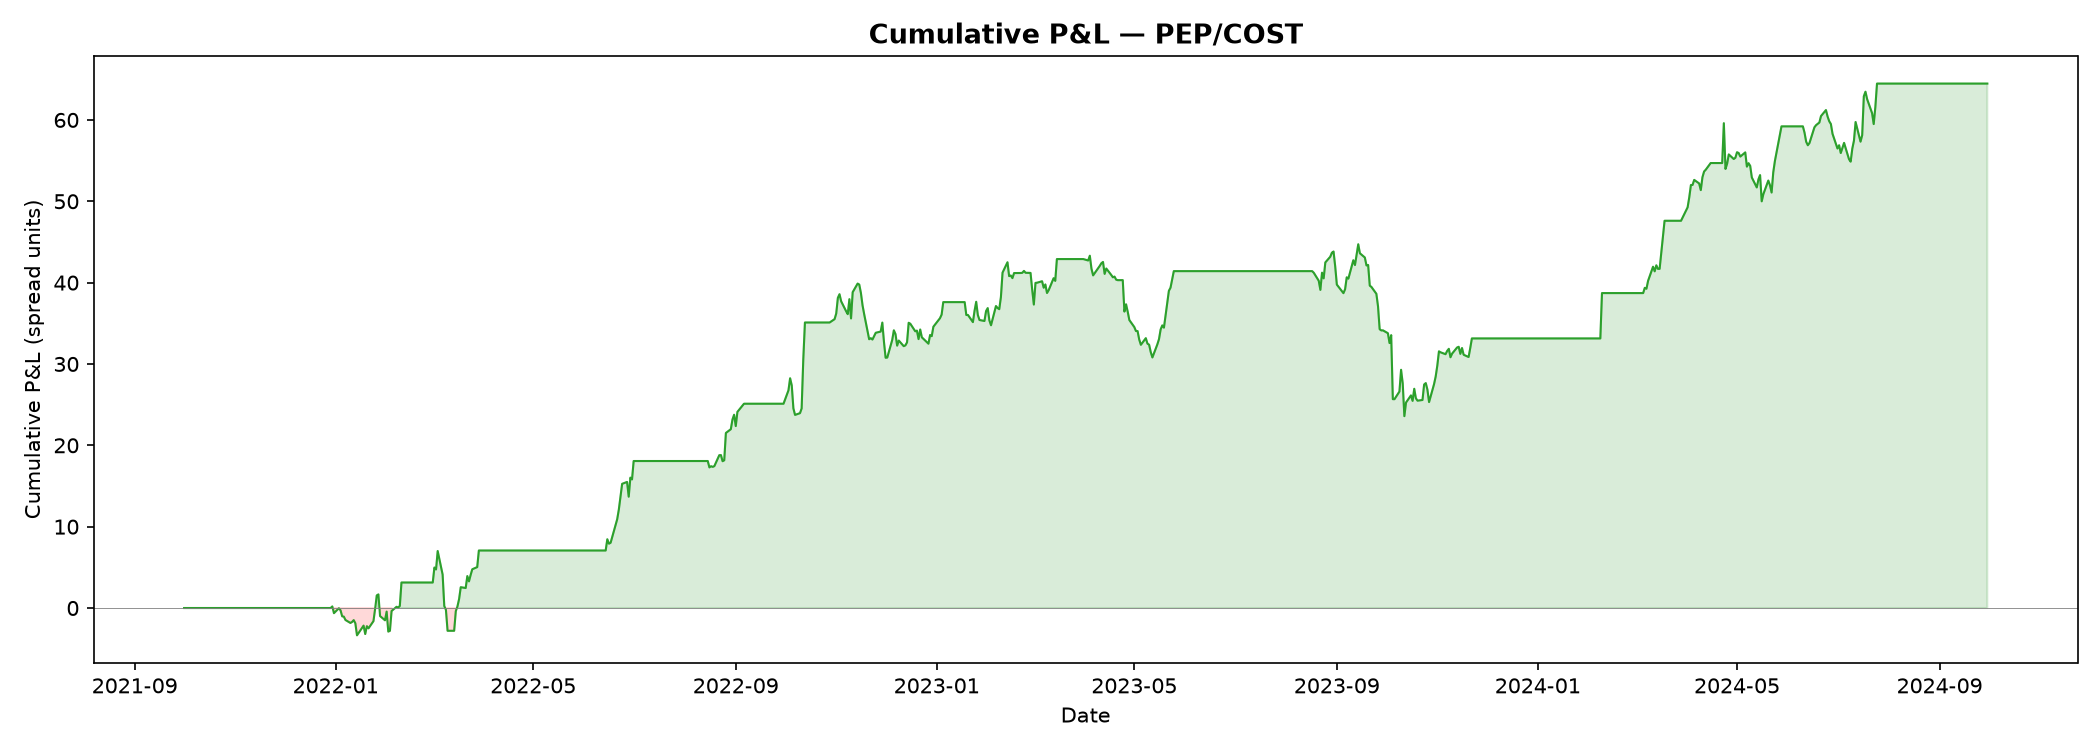
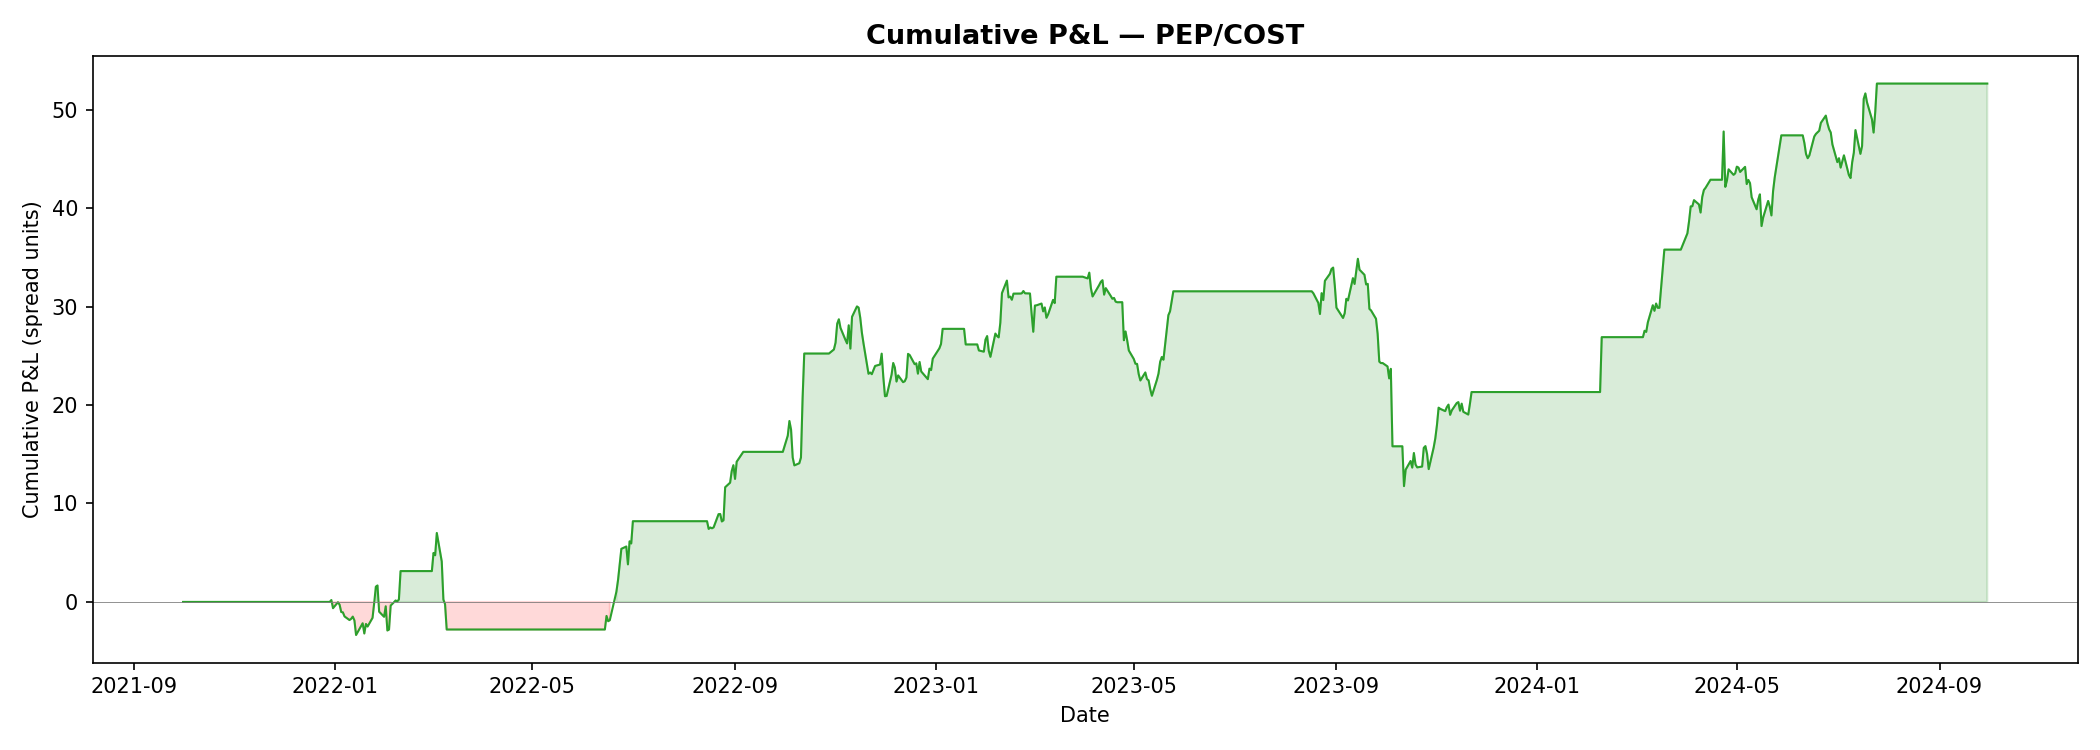
Update results and charts after backtest corrections
Regenerate all charts and update backtest table in README and
half-life bucket stats in INVESTIGATION to reflect corrected
normalization and signal logic. Portfolio Sharpe: 1.75, return: 103%.

diff --git a/INVESTIGATION.md b/INVESTIGATION.md
@@ -34,7 +34,7 @@
 
 2. **In-sample bias**: Cointegration tests and hedge ratios are estimated on the same data used for backtesting. The out-of-sample validation in Section 6 confirms this overstates performance significantly.
 
-3. **No transaction costs**: The backtest assumes zero costs. At 10 bps round-trip, total costs for a pair generating ~16 trades over 3 years would be ~1.6% of notional — negligible for top performers but material for marginal pairs like JNJ/PFE (16.3% return).
+3. **No transaction costs**: The backtest assumes zero costs. At 10 bps round-trip, total costs for a pair generating ~16 trades over 3 years would be ~1.6% of notional — negligible for top performers but material for marginal pairs like JNJ/PFE (11.2% return).
 
 4. **Static hedge ratios**: Hedge ratios are estimated once over the full sample and never re-estimated. In production, ratios would need rolling re-estimation, which would reduce returns.
 
@@ -138,19 +138,19 @@ All 9 raw-significant pairs fall in a narrow range: **16.5 to 29.3 days**, with 
 
 | Bucket | Pairs | Avg Sharpe | Avg Win Rate | Avg Return |
 |--------|-------|-----------|-------------|------------|
-| <20 days | MSFT/META, V/MA, PEP/MCD | 1.01 | 74.1% | 183.7% |
-| 20–25 days | PEP/YUM, GOOGL/AMZN, JNJ/MRK, JNJ/PFE | 0.82 | 65.3% | 48.4% |
-| >25 days | PEP/WMT, PEP/COST | 1.23 | 71.6% | 61.2% |
+| <20 days | MSFT/META, V/MA, PEP/MCD | 0.85 | 66.1% | 153.5% |
+| 20–25 days | PEP/YUM, GOOGL/AMZN, JNJ/MRK, JNJ/PFE | 0.76 | 46.3% | 46.7% |
+| >25 days | PEP/WMT, PEP/COST | 1.03 | 69.0% | 39.7% |
 
 ![Half-Life Analysis](data/output/charts/investigation/half_life_analysis.png)
 
 ### Interpretation
 
-The <20-day bucket produced the highest average returns (183.7%), driven by V/MA's outsized 358% return. The >25-day bucket had the highest average Sharpe (1.23). The relationship between half-life and Sharpe is non-monotonic in this small sample, but drawing conclusions from 9 pairs across 3 buckets would be over-interpreting the data.
+The <20-day bucket produced the highest average returns (153.5%), driven by V/MA's outsized 354% return. The >25-day bucket had the highest average Sharpe (1.03). The relationship between half-life and Sharpe is non-monotonic in this small sample, but drawing conclusions from 9 pairs across 3 buckets would be over-interpreting the data.
 
 ### Transaction cost sensitivity
 
-At our z-score thresholds (entry ±2, exit at sign change), each pair generates 14–19 round-trip trades over 3 years. With a conservative 10 bps round-trip cost assumption, total transaction costs would be 1.4–1.9% of notional — negligible relative to returns for winners but meaningful for marginal pairs like JNJ/PFE (16.3% return, ~1.4% in costs).
+At our z-score thresholds (entry ±2, exit at sign change), each pair generates 12–17 round-trip trades over 3 years. With a conservative 10 bps round-trip cost assumption, total transaction costs would be 1.2–1.7% of notional — negligible relative to returns for winners but meaningful for marginal pairs like JNJ/PFE (11.2% return, ~1.3% in costs).
 
 ---
 
